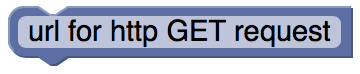
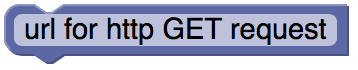
fixed block colors, added new .png files, rearanged help page to reflect changes in colors

diff --git a/help.html b/help.html
@@ -64,6 +64,7 @@
                 <a href="#if_enter" class="dropdown-item">If Enter</a>
               <a href="#Function" class="dropdownItem"><h>Blockly Function Blocks</h></a>
                 <a href="#search_function" class="dropdown-item">Search With</a>
+                <a href="#language" class="dropdown-item">Change Language</a>
             </div>
           </li>
           <li class="nav-item">
@@ -282,27 +283,6 @@
         <div><h3 >Blockly Chatbot Blocks</h3></div>
         <div class="tab1">
           <!--------------------------------------------------------------------------------------------------------------->
-          <a class="anchor" id="response"></a>
-          <b>Response     </b>
-          <img src="Block_Images/response.png" alt="Block_Images/response.png not found" width="120" height="40">
-          <p class="tab2">
-            Write the help description and here.....................
-          </p>
-          <!--------------------------------------------------------------------------------------------------------------->
-          <a class="anchor" id="input"></a>
-          <b>Introduction     </b>
-          <img src="Block_Images/introduction.png" alt="Block_Images/introduction.png not found" width="110" height="40">
-          <p class="tab2">
-            The Introduction block is where you would enter text that you want to say to the end user before any other messages are shared.
-          </p>
-          <!--------------------------------------------------------------------------------------------------------------->
-          <a class="anchor" id="validate"></a>
-          <b>Text/Matching List     </b>
-          <img src="Block_Images/validate.png" alt="Block_Images/validate.png not found" width="125" height="75">
-          <p class="tab2">
-            Write the help description and here.....................
-          </p>
-          <!--------------------------------------------------------------------------------------------------------------->
           <a class="anchor" id="socket_setup"></a>
           <b>Bot Setup     </b>
           <img src="Block_Images/botSetup.png" alt="Block_Images/botSetup.png not found" width="100" height="50">
@@ -311,9 +291,38 @@
             bot with. The blocks you put inside the bot setup block will determine the funtionality of your shat bot.
           </p>
           <!--------------------------------------------------------------------------------------------------------------->
+          <a class="anchor" id="initialize_variables"></a>
+          <b>Initialize Variables     </b>
+          <img src="Block_Images/initVars.png" alt="Block_Images/initVars.png not found" width="140" height="40">
+          <p class="tab2">
+            This is the first block you need to use in your chatbot. It creates the two variables (userResponce and validation) 
+            that each chatbot needs. Place this block as your first inside of bot setup.
+          </p>
+          <!--------------------------------------------------------------------------------------------------------------->
+          <a class="anchor" id="response"></a>
+          <b>Response     </b>
+          <img src="Block_Images/response.png" alt="Block_Images/response.png not found" width="120" height="40">
+          <p class="tab2">
+            Write the help description and here.....................
+          </p>
+           <!--------------------------------------------------------------------------------------------------------------->
+          <a class="anchor" id="input"></a>
+          <b>Introduction     </b>
+          <img src="Block_Images/introduction.png" alt="Block_Images/introduction.png not found" width="110" height="40">
+          <p class="tab2">
+            The Introduction block is where you would enter text that you want to say to the end user before any other messages are shared.
+          </p>
+          <!--------------------------------------------------------------------------------------------------------------->
           <a class="anchor" id="question_block"></a>
           <b>Question     </b>
           <img src="Block_Images/question.png" alt="Block_Images/question.png not found" width="110" height="40">
+          <p class="tab2">
+            Write the help description and here.....................
+          </p>
+          <!--------------------------------------------------------------------------------------------------------------->
+          <a class="anchor" id="user_response_checker"></a>
+          <b>Check User Response     </b>
+          <img src="Block_Images/checkResponse.png" alt="Block_Images/checkResponse.png not found" width="160" height="40">
           <p class="tab2">
             Write the help description and here.....................
           </p>
@@ -326,6 +335,14 @@
             it is attached to contains the string that is entered in place of the 'default' string, and false if it does not.
           </p>
           <!--------------------------------------------------------------------------------------------------------------->
+          <a class="anchor" id="if_enter"></a>
+          <b>If Enter     </b>
+          <img src="Block_Images/ifEnter.png" alt="Block_Images/ifEnter.png not found" width="95" height="50">
+          <p class="tab2">
+            This block is similar to a <a href="#boolean">Logical Boolean</a>, in that it returns true if/when the end user presses 
+            the 'ENTER' button.
+          </p>
+          <!--------------------------------------------------------------------------------------------------------------->
           <a class="anchor" id="get_user_resopnse"></a>
           <b>Get User Response     </b>
           <img src="Block_Images/userResponse.png" alt="Block_Images/userResponse.png not found" width="140" height="40">
@@ -333,27 +350,11 @@
             Write the help description and here.....................
           </p>
           <!--------------------------------------------------------------------------------------------------------------->
-          <a class="anchor" id="initialize_variables"></a>
-          <b>Initialize Variables     </b>
-          <img src="Block_Images/initVars.png" alt="Block_Images/initVars.png not found" width="140" height="40">
-          <p class="tab2">
-            This is the first block you need to use in your chatbot. It creates the two variables (userResponce and validation) 
-            that each chatbot needs. Place this block as your first inside of bot setup.
-          </p>
-          <!--------------------------------------------------------------------------------------------------------------->
-          <a class="anchor" id="user_response_checker"></a>
-          <b>Check User Response     </b>
-          <img src="Block_Images/checkResponse.png" alt="Block_Images/checkResponse.png not found" width="160" height="40">
+          <a class="anchor" id="validate"></a>
+          <b>Text/Matching List     </b>
+          <img src="Block_Images/validate.png" alt="Block_Images/validate.png not found" width="125" height="75">
           <p class="tab2">
             Write the help description and here.....................
-          </p>
-          <!--------------------------------------------------------------------------------------------------------------->
-          <a class="anchor" id="if_enter"></a>
-          <b>If Enter     </b>
-          <img src="Block_Images/ifEnter.png" alt="Block_Images/ifEnter.png not found" width="95" height="50">
-          <p class="tab2">
-            This block is similar to a <a href="#boolean">Logical Boolean</a>, in that it returns true if/when the end user presses 
-            the 'ENTER' button.
           </p>
         </div>
 <!--
@@ -368,11 +369,18 @@
           <!--------------------------------------------------------------------------------------------------------------->
           <a class="anchor" id="search_function"></a>
           <b>Searh With     </b>
-          <img src="Block_Images/searchFunction.png" alt="Block_Images/searchFunction.png not found" width="160" height="40">
+          <img src="Block_Images/searchFunction.png" alt="Block_Images/searchFunction.png not found" width="180" height="40">
           <p class="tab2">
             This block will search the web based searh engine of your choice for the string you enter. Select a search engine 
             from the drop down menu. There are three choices: Google, Bing, and Yahoo. Then attach a 
             <a href="#message">Message</a> block to the right of the Search With block.  
+          </p>
+          <!--------------------------------------------------------------------------------------------------------------->
+          <a class="anchor" id="language"></a>
+          <b>Language Settings     </b>
+          <img src="Block_Images/language.png" alt="Block_Images/language.png not found" width="200" height="40">
+          <p class="tab2">
+            Write the help description and here.....................
           </p>
         </div>
       </div>

diff --git a/CustomBlocks.js b/CustomBlocks.js
@@ -7,7 +7,7 @@ Blockly.Blocks['validate'] = {
         .setCheck("Array")
         .appendField("matching list");
     this.setOutput("Boolean");
-    this.setColour(0);
+    this.setColour(260);
  this.setTooltip("vaildates that the strings are matching");
  this.setHelpUrl("help.html#validate");
   }
@@ -20,7 +20,7 @@ Blockly.Blocks['if_enter'] = {
         .appendField("if enter");
     this.setPreviousStatement(true, null);
     this.setNextStatement(true, null);
-    this.setColour(230);
+    this.setColour(210);
  this.setTooltip("returns true when the 'ENTER' button is pressed");
  this.setHelpUrl("help.html#if_enter");
   }
@@ -32,7 +32,7 @@ Blockly.Blocks['contains'] = {
         .appendField("contains")
         .appendField(new Blockly.FieldTextInput("default"), "NAME");
     this.setOutput(true, null);
-    this.setColour(230);
+    this.setColour(210);
  this.setTooltip("returns true if the attached block contains the 'default' string.");
  this.setHelpUrl("help.html#contains");
   }
@@ -43,7 +43,7 @@ Blockly.Blocks['socket_setup'] = {
     this.appendStatementInput("socket_set_up")
         .setCheck(null)
         .appendField("bot setup");
-    this.setColour(230);
+    this.setColour(15);
  this.setTooltip("sets up sockets");
  this.setHelpUrl("help.html#socket_setup");
   }
@@ -55,7 +55,7 @@ Blockly.Blocks['initalizer'] = {
        .appendField("initialize varibles");
    this.setPreviousStatement(true, null);
    this.setNextStatement(true, null);
-   this.setColour(230);
+   this.setColour(100);
 this.setTooltip("");
 this.setHelpUrl("help.html#initialize_variables");
  }
@@ -68,7 +68,7 @@ Blockly.Blocks['input'] = {
         .appendField("introduction ");
     this.setPreviousStatement(true, null);
     this.setNextStatement(true, null);
-    this.setColour(120);
+    this.setColour(160);
  this.setTooltip("sends first message to user");
  this.setHelpUrl("help.html#input");
   }
@@ -81,7 +81,7 @@ Blockly.Blocks['get_user_response'] = {
     this.setPreviousStatement(true, null);
     this.setNextStatement(true, null);
 	this.setOutput(true, "String");
-    this.setColour(230);
+    this.setColour(330);
  this.setTooltip("");
  this.setHelpUrl("help.html#get_user_resopnse");
   }
@@ -93,7 +93,7 @@ Blockly.Blocks['response'] = {
         .appendField("response")
         .appendField(new Blockly.FieldTextInput("default"), "userResponse");
     this.setNextStatement(true, "String");
-    this.setColour(230);
+    this.setColour(160);
  this.setTooltip("");
  this.setHelpUrl("help.html#response");
   }
@@ -106,7 +106,7 @@ Blockly.Blocks['userresponsevarable'] = {
         .appendField("check user response");
 	this.setPreviousStatement(true, null);
     this.setNextStatement(true, null);
-    this.setColour(120);
+    this.setColour(160);
  this.setTooltip("");
  this.setHelpUrl("help.html#user_response_checker");
   }
@@ -119,7 +119,7 @@ Blockly.Blocks['question_block'] = {
         .appendField(new Blockly.FieldTextInput(""), "Question they want to ask");
     this.setPreviousStatement(true, null);
     this.setNextStatement(true, null);
-    this.setColour(230);
+    this.setColour(160);
  this.setTooltip("sends next question to user");
  this.setHelpUrl("help.html#question_block");
   }
@@ -155,7 +155,7 @@ Blockly.Blocks['http_get'] = {
         .appendField(new Blockly.FieldTextInput("url for http GET request"), "url");
     this.setPreviousStatement(true, null);
     this.setNextStatement(true, null);
-    this.setColour(225);
+    this.setColour(230);
  this.setTooltip("Type URL you are requesting");
  this.setHelpUrl("help.html#http_get");
   }
@@ -169,7 +169,7 @@ Blockly.Blocks['http_put'] = {
     this.setInputsInline(false);
     this.setPreviousStatement(true, null);
     this.setNextStatement(true, null);
-    this.setColour(225);
+    this.setColour(230);
  this.setTooltip("Type the URL that you are sending the data to");
  this.setHelpUrl("help.html#http_put");
   }
@@ -181,7 +181,7 @@ Blockly.Blocks['http_put'] = {
 //         .appendField(new Blockly.FieldTextInput("url for https GET request"), "url");
 //     this.setPreviousStatement(true, null);
 //     this.setNextStatement(true, null);
-//     this.setColour(100);
+//     this.setColour(230);
 //  this.setTooltip("Type URL you are requesting");
 //  this.setHelpUrl("help.html#https_get");
 //   }
@@ -195,7 +195,7 @@ Blockly.Blocks['http_put'] = {
 //     this.setInputsInline(false);
 //     this.setPreviousStatement(true, null);
 //     this.setNextStatement(true, null);
-//     this.setColour(100);
+//     this.setColour(230);
 //  this.setTooltip("Type the URL that you are sending the data to");
 //  this.setHelpUrl("help.html#https_put");
 //   }
@@ -205,11 +205,11 @@ Blockly.Blocks['language'] = {
   init: function() {
     this.appendValueInput("UseriNPUT")
         .setCheck("String")
-        .appendField("languages setting")
+        .appendField("language settings")
         .appendField(new Blockly.FieldDropdown([["English","English"], ["Chinese","Chinese"], ["French","French"], ["German","German"], ["Russian","Russian"], ["Korean","Korean"], ["Janpan","Janpan"]]), "Lan");
     this.setOutput(true, "required language mode");
     this.setColour(330);
- this.setTooltip("");
+ this.setTooltip("changes the language of the chatbot");
  this.setHelpUrl("help.html#language");
   }
 };
@@ -222,7 +222,7 @@ Blockly.Blocks['search_function'] = {
         .appendField(new Blockly.FieldDropdown([["Google","Google"], ["Bing","Bing"], ["Yahoo","Yahoo"]]), "NAME");
     this.setOutput(true, "String");
     this.setColour(230);
- this.setTooltip("");
+ this.setTooltip("searches the web with the selected search engine");
  this.setHelpUrl("help.html#search_function");
   }
 };

diff --git a/index.js b/index.js
@@ -2,7 +2,7 @@
 var BLOCKS = {
   categories: [{
       name: 'Basic',
-      blocks: ['controls_if', 'controls_whileUntil', 'text', 'text_print', 'logic_boolean', 'logic_compare', 'variables_get', 'variables_set', 'lists_create_with'],
+      blocks: ['controls_whileUntil', 'text', 'text_print', 'controls_if', 'logic_boolean', 'logic_compare', 'variables_get', 'variables_set', 'lists_create_with'],
       color: '210'
     },
     {
@@ -12,12 +12,12 @@ var BLOCKS = {
     },
     {
       name: 'Chatbot',
-	blocks: ['response', 'input', 'validate', 'socket_setup', 'question_block','contains', 'get_user_response', 'initalizer','userresponsevarable','if_enter'],
+	blocks: ['socket_setup', 'initalizer', 'response', 'input','question_block', 'userresponsevarable', 'contains', 'if_enter', 'get_user_response',  'validate'],
       color: '20'
     },
     {
       name: 'Function',
-  blocks: ['search_function'],
+  blocks: ['search_function','language'],
       color: '50'
     }
 
